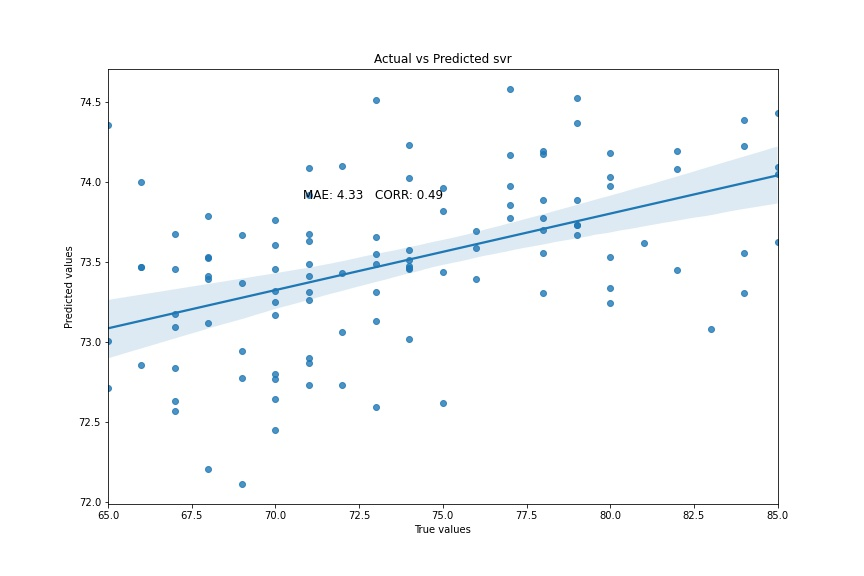
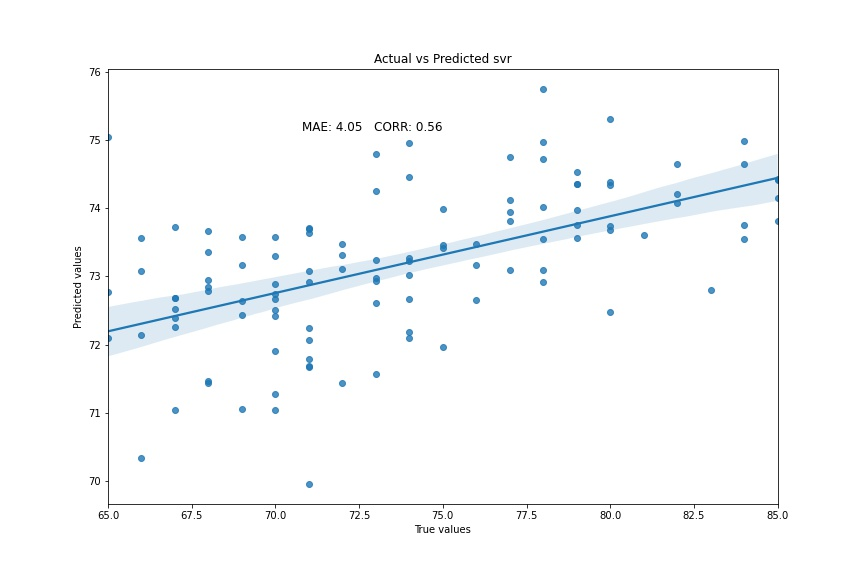
create code version without julearn

diff --git a/src/2a_cv_test_sklearn.py b/src/2a_cv_test_sklearn.py
@@ -1,0 +1,211 @@
+# %%
+import pandas as pd
+import numpy as np
+import matplotlib.pyplot as plt
+import neuropsychology_correlations
+import plots
+from skrvm import RVR
+from sklearn.svm import SVR
+from sklearn.ensemble import GradientBoostingRegressor
+from sklearn.model_selection import StratifiedKFold
+from sklearn.model_selection import GridSearchCV, cross_val_predict
+from sklearn.preprocessing import RobustScaler
+from sklearn.inspection import permutation_importance
+from sklearn.linear_model import LinearRegression
+
+
+# %%
+# LOAD DATA
+# load and inspect data, set modality
+# TODO: read in bootstrapping samples @antogeo
+# modality = input("Which modality are you analyzing? ")
+modality = 'PET'
+mode = "train"
+df = pd.read_csv('../data/ADNI/test_train_' + modality + '_NP_amytau_olderthan65_42.csv')
+df_train = df[df['train'] == True]
+# select columns with '_' which are col's with features
+col = [x for x in df_train.columns if ('_' in x)]
+df_train = df_train.reset_index(drop=True)
+
+# plot hist with Ages of train data
+plt.hist(df_train['age'], bins=30)
+#%%
+# PREPARATION
+rand_seed = 42
+num_bins = 5
+
+# define models and model names (some are already included in julearn)
+rvr = RVR()
+svr = SVR()
+gradientboost = GradientBoostingRegressor()
+
+# models to test & names
+models = [rvr, svr, gradientboost]
+model_names = ['rvr', 'svr', 'gradientboost']
+splits = 5
+
+# hyperparameters svr & rvr
+kernels = ['linear', 'rbf']
+cs = [0.001, 0.01, 0.1, 1, 10, 100]
+# hyperparameters gb
+loss = ['squared_error', 'absolute_error']
+n_estimators = [10, 100, 1000]
+learning_rate = [0.001, 0.01, 0.1]
+
+model_params = [[{'C': cs, 'kernel': kernels}],
+                [{'C': cs, 'kernel': kernels}],
+                [{'n_estimators': n_estimators,
+                 'learning_rate': learning_rate}]]
+
+model_results = []
+scores_results = []
+res = {}
+res['model'] = []
+res['iter'] = []
+res['pred'] = []
+res['ind'] = []
+
+#%%
+# TRAINING
+# train models using 5-fold cross-validation
+# TODO: read in bootstrapping samples @antogeo
+scaler = RobustScaler()
+X_train = scaler.fit_transform(df_train[col])
+cv = StratifiedKFold(n_splits=splits)
+
+final_models = {}
+final_scores = {}
+final_predictions = {}
+for model in models:
+    grid_cv = GridSearchCV(model, model_params[models.index(model)],
+                           scoring = ['r2','neg_mean_absolute_error'],
+                           refit = 'r2',
+                           cv = cv)
+    final_model = grid_cv.fit(X_train, df_train['age'])
+    final_models[str(model)[:-2]] = final_model.best_estimator_
+    final_scores[str(model)[:-2]] = final_model.best_score_
+    final_predictions[str(model)[:-2]] = final_model.predict(X_train)
+
+# %%
+# BIAS CORRECTION
+# Eliminate linear correlation of brain age difference and chronological age
+
+# relevance Vectors Regression
+y_pred_rvr = final_predictions['RVR']
+y_true = df_train['age']
+
+# fit a linear model for bias correction for rvr
+lm_rvr = LinearRegression()
+lm_rvr.fit(np.array(y_pred_rvr).reshape(-1, 1), np.array(y_true).reshape(-1, 1))
+slope_rvr = lm_rvr.coef_[0][0]
+intercept_rvr = lm_rvr.intercept_[0]
+y_pred_bc = (y_pred_rvr - intercept_rvr)/slope_rvr
+
+# plot real_vs_pred
+plots.real_vs_pred(y_true, y_pred_rvr, "rvr", mode, modality)
+
+# SVM
+y_pred_svm = final_predictions['SVR']
+
+# fit a linear model for bias correction for svm
+lm_svr = LinearRegression()
+lm_svr.fit(np.array(y_pred_svm).reshape(-1, 1), np.array(y_true).reshape(-1, 1))
+slope_svr = lm_svr.coef_[0][0]
+intercept_svr = lm_svr.intercept_[0]
+y_pred_svm_bc = (y_pred_svm - intercept_svr)/slope_svr
+
+# plot real_vs_pred
+plots.real_vs_pred(y_true, y_pred_svm_bc, "svr", mode, modality)
+
+# Gradient Boost
+y_pred = final_predictions['GradientBoostingRegressor']
+
+
+# fit a linear model for bias correction for gaussian
+lm_gradboost = LinearRegression()
+lm_gradboost.fit(np.array(y_pred).reshape(-1, 1), np.array(y_true).reshape(-1, 1))
+slope_gradboost = lm_gradboost.coef_[0][0]
+intercept_gradboost = lm_gradboost.intercept_[0]
+y_pred_bc = (y_pred - intercept_gradboost)/slope_gradboost
+
+# plot real_vs_pred
+plots.real_vs_pred(y_true, y_pred_bc, "gradboost", mode, modality)
+
+# %%
+# TESTING
+# How well does the model perform on unseen data?
+df_test = df[df['train'] == False]
+# apply scale parameters from training data
+X_test = scaler.transform(df_test[col].values)
+y_test = df_test['age'].values
+mode = "test"
+
+# plot rvr predictions against GT in test set
+y_pred_rvr = final_models['RVR'].predict(X_test)
+y_pred_rvr_bc = (y_pred_rvr - intercept_rvr)/slope_rvr
+
+plots.real_vs_pred(y_test, y_pred_rvr_bc, "rvr", mode, modality)
+
+# plot svr predictions against GT in test set
+y_pred_svr = final_models['SVR'].predict(X_test)
+y_pred_svr_bc = (y_pred_svr - intercept_svr)/slope_svr
+
+plots.real_vs_pred(y_test, y_pred_svr_bc, "svr", mode, modality)
+
+
+# plot gradboost predictions against GT in test set
+y_pred_gradb = final_models['GradientBoostingRegressor'].predict(X_test)
+y_pred_gradb_bc = (y_pred_gradb - intercept_gradboost)/slope_gradboost
+
+plots.real_vs_pred(y_test, y_pred_gradb_bc, "gradboost", mode, modality)
+#%%
+# PERMUTATION IMPORTANCE
+pi = permutation_importance(final_models['RVR'],
+                            X_test, y_true,
+                            n_repeats = 1000)
+
+#%%
+plots.permutation_imp(pi, 'rvr', modality)
+# %%
+# SAVE RESULTS
+# Create table of (corrected) predicted and chronological age in this modality
+# rvr had better performance in both MAE and R2 --> take rvr as final model
+y_diff = y_pred_svr_bc - y_test
+df_test = df_test.reset_index(drop=True)
+pred_csv = pd.concat((df_test["name"],
+                      pd.DataFrame(y_test, columns=["age"]),
+                      pd.DataFrame(y_pred_svr, columns=["RawPredAge"]),
+                      pd.DataFrame(y_pred_svr_bc, columns=["CorrPredAge"]),
+                      pd.DataFrame(y_diff, columns=["BPAD"])), axis=1)
+
+pred_csv.to_csv('../results/pred_age_{}_svr.csv'.format(modality))
+
+y_diff = y_pred_rvr_bc - y_true
+pred_csv = pd.concat((df_test["name"],
+                      pd.DataFrame(y_true, columns=["age"]),
+                      pd.DataFrame(y_pred_rvr, columns=["RawPredAge"]),
+                      pd.DataFrame(y_pred_rvr_bc, columns=["CorrPredAge"]),
+                      pd.DataFrame(y_diff, columns=["BPAD"])), axis=1)
+
+pred_csv.to_csv('../results/pred_age_{}_rvr.csv'.format(modality))
+
+y_diff = y_pred_gradb_bc - y_true
+pred_csv = pd.concat((df_test["name"],
+                      pd.DataFrame(y_true, columns=["age"]),
+                      pd.DataFrame(y_pred_gradb, columns=["RawPredAge"]),
+                      pd.DataFrame(y_pred_gradb_bc, columns=["CorrPredAge"]),
+                      pd.DataFrame(y_diff, columns=["BPAD"])), axis=1)
+
+pred_csv.to_csv('../results/pred_age_{}_gradb.csv'.format(modality))
+
+ # %%
+# CORRELATION NEUROPSYCHOLOGY - BRAIN AGE
+# Inspect correlation of neuropsychological scores and predicted/corrected
+# brain age
+npt = df_test.columns[-12:].values
+neuropsychology_correlations.neuropsych_correlation(y_true, y_pred_rvr_bc, "BPA",
+                                                    npt, df_test, modality)
+# Correlation with Neuropsychology - brain age difference ( BA- CA)
+y_diff = y_pred_rvr_bc - y_true
+neuropsychology_correlations.neuropsych_correlation(y_true, y_diff, "BPAD",
+                                                    npt, df_test, modality)
